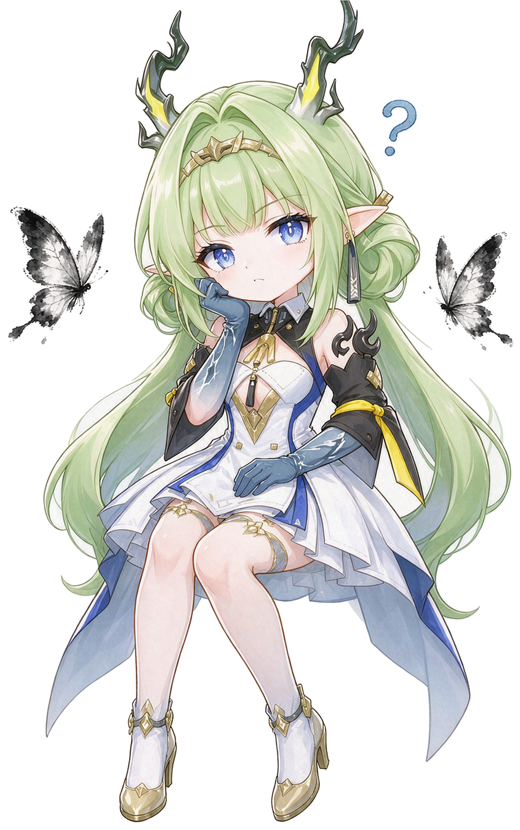
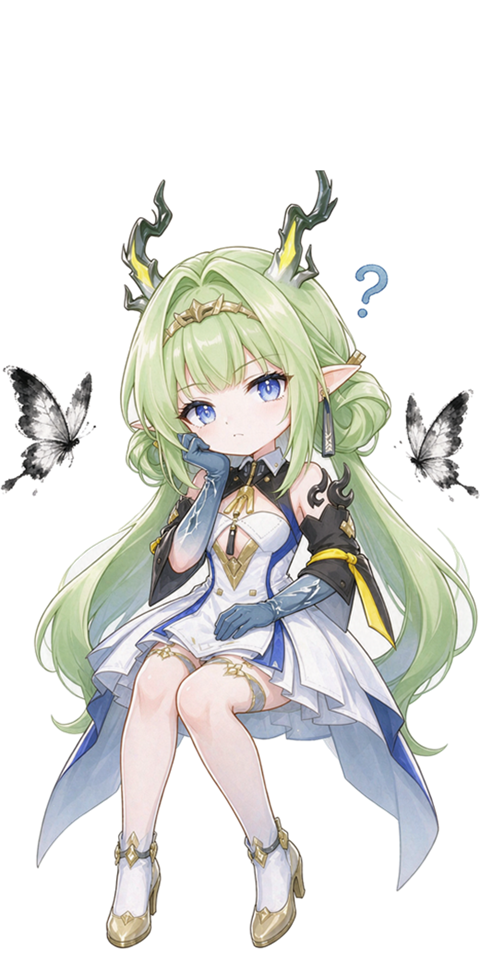
fix(吉祥物): 四张素材统一到同一块画布,切换不再忽高忽低
按人物透明外框对齐:统一裁到 480 宽、同一底线(950)、同一块 480x960 画布;实测四张现在的尺寸完全相同(480x960),姿态不同的高低差来自动作本身(举手 vs 垂手)而不是缩放不一致。样式按画布比例钉死宽高,并加护栏:四张尺寸必须一致、比例与样式吻合。

diff --git a/public/css/app.css b/public/css/app.css
@@ -1795,7 +1795,15 @@ html[data-style="brutal"] .style-opt-preview.liquid { border-radius: 12px; }
 
 .mascot-body {
   position: relative;
-  display: block;
+  /* 四张素材已经统一成同一块画布（480x960、同一底线、同一身高），
+     这里把画布比例与显示尺寸钉死，所以换图时她不会忽高忽低 */
+  width: 100%;
+  max-width: 196px;
+  aspect-ratio: 480 / 960;
+  max-height: 100%;
+  display: flex;
+  align-items: flex-end;
+  justify-content: center;
   padding: 0;
   border: 0;
   background: none;
@@ -1820,10 +1828,10 @@ html[data-style="brutal"] .style-opt-preview.liquid { border-radius: 12px; }
 
 .mascot-img {
   display: block;
-  max-width: 100%;
-  max-height: 100%;
-  width: auto;
-  height: auto;
+  width: 100%;
+  height: 100%;
+  object-fit: contain;
+  object-position: bottom center;
   user-select: none;
   -webkit-user-drag: none;
 }
